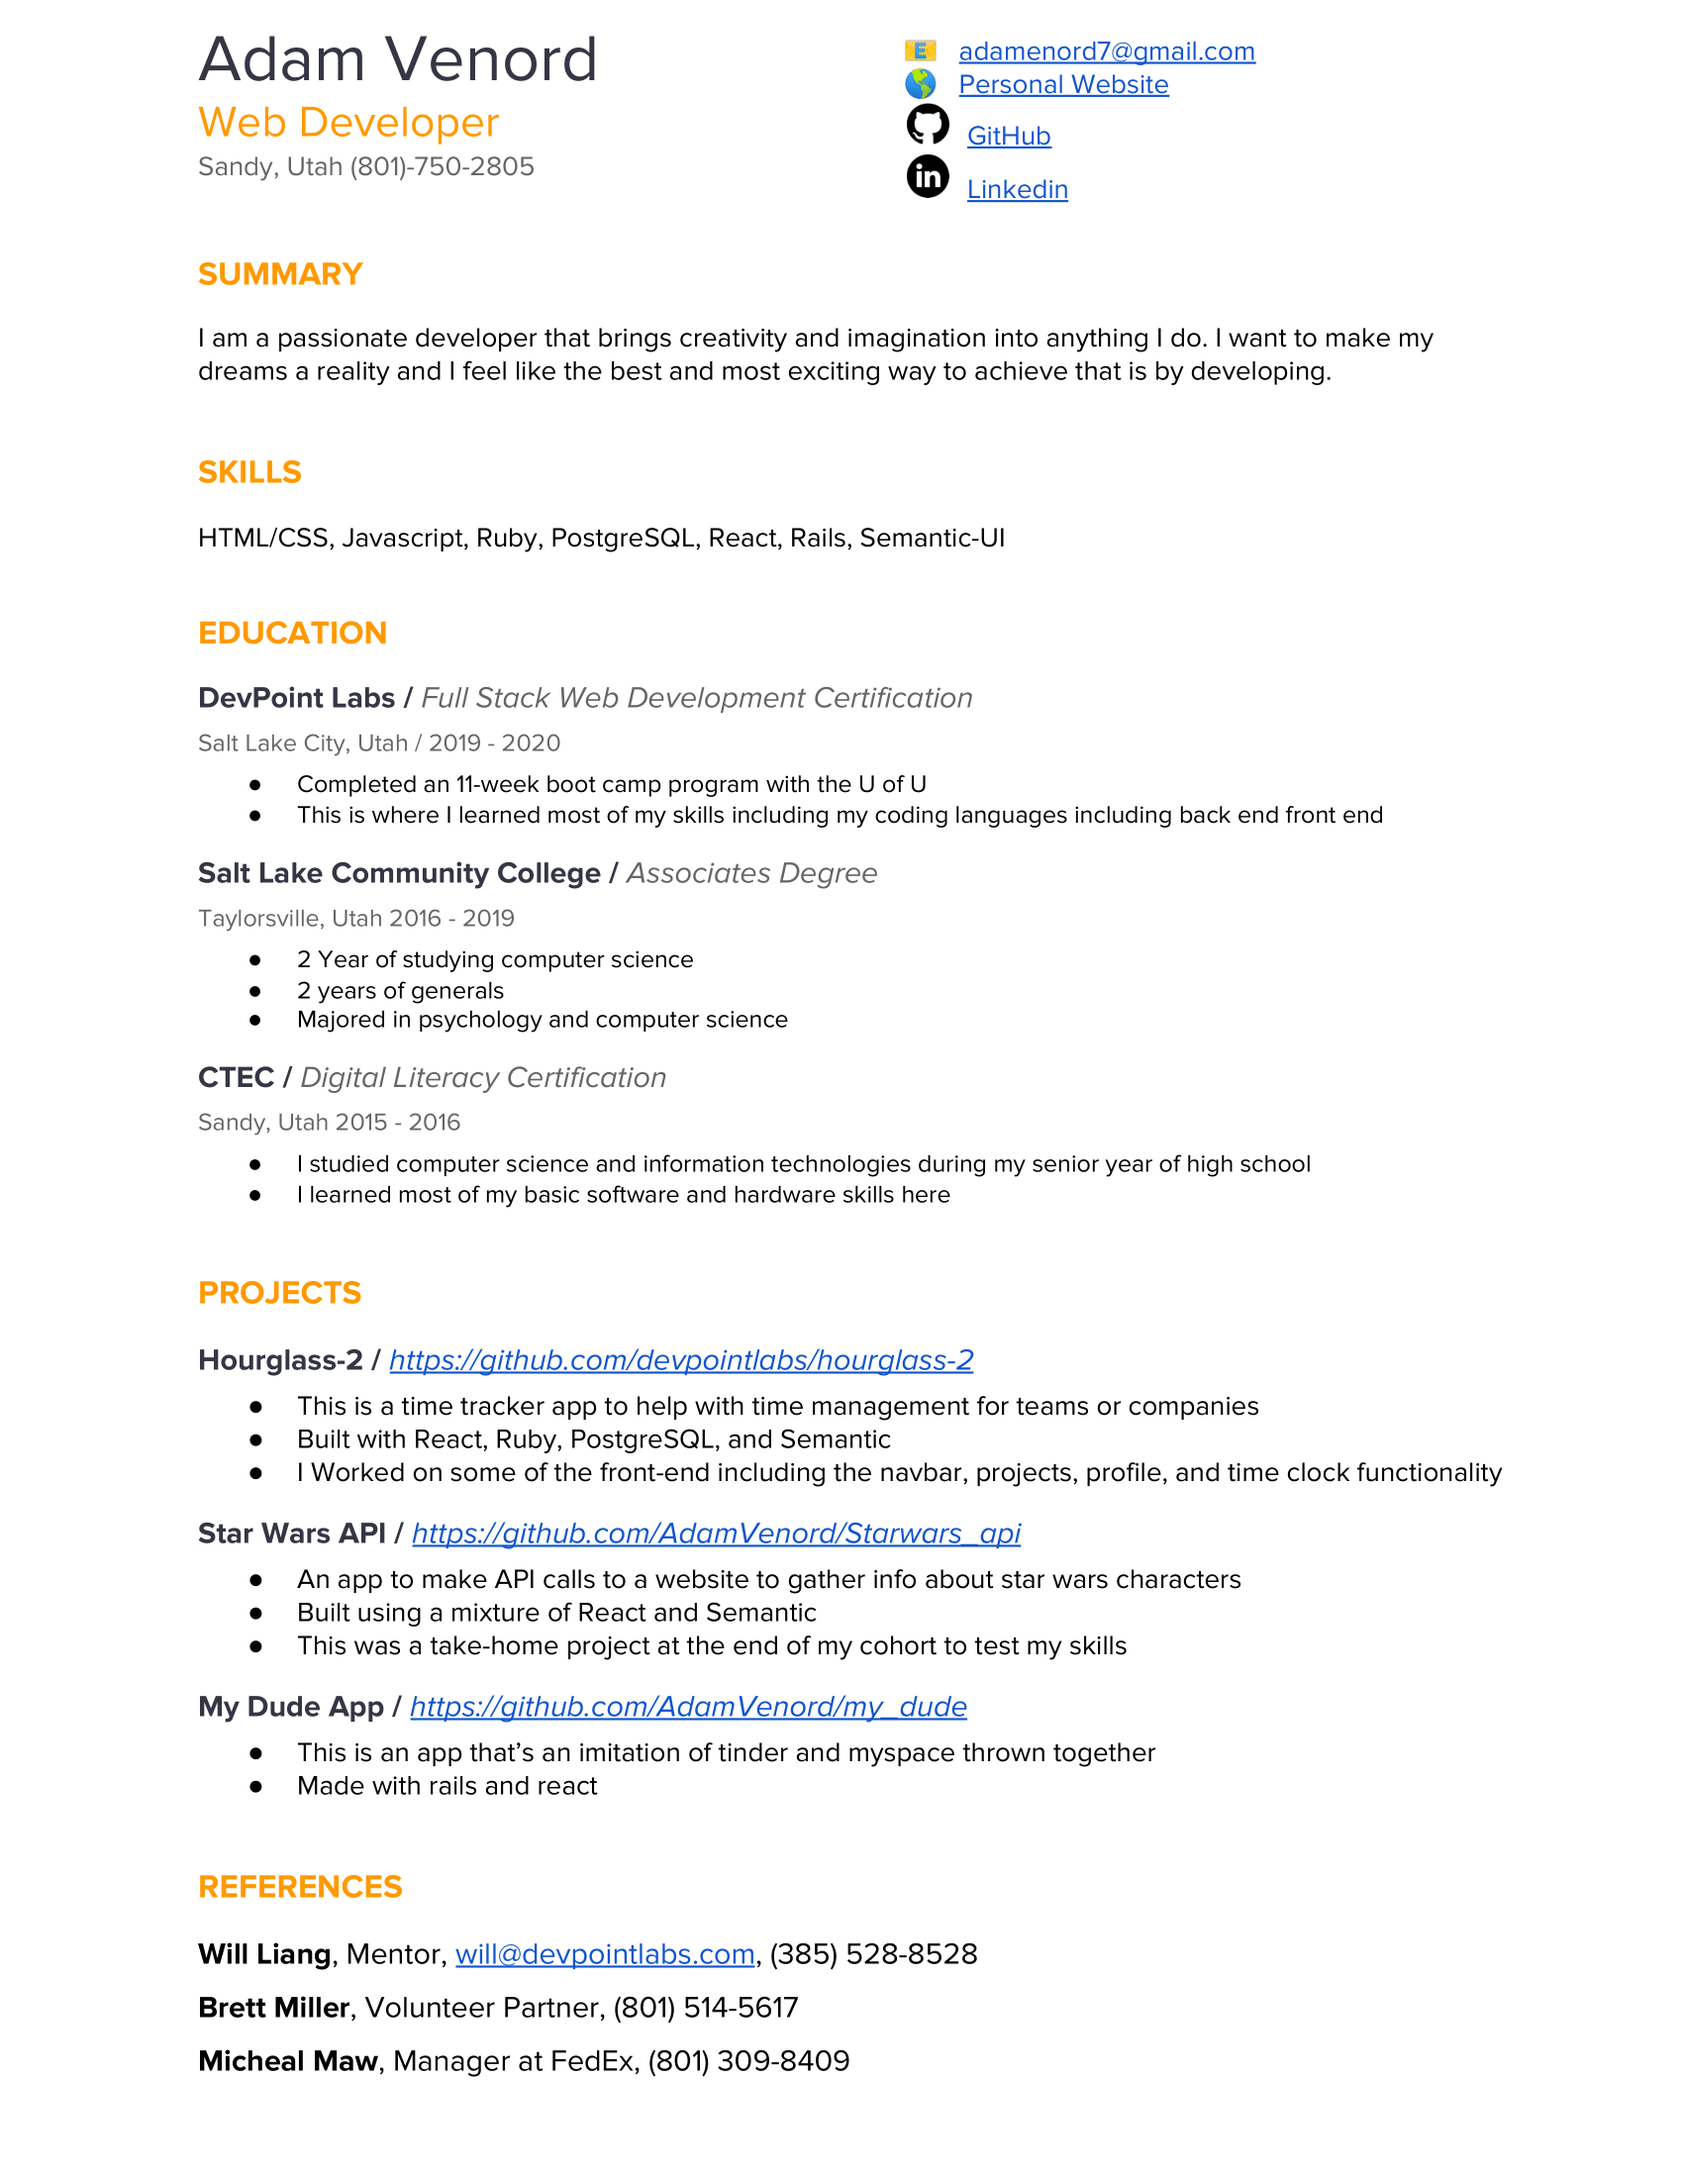
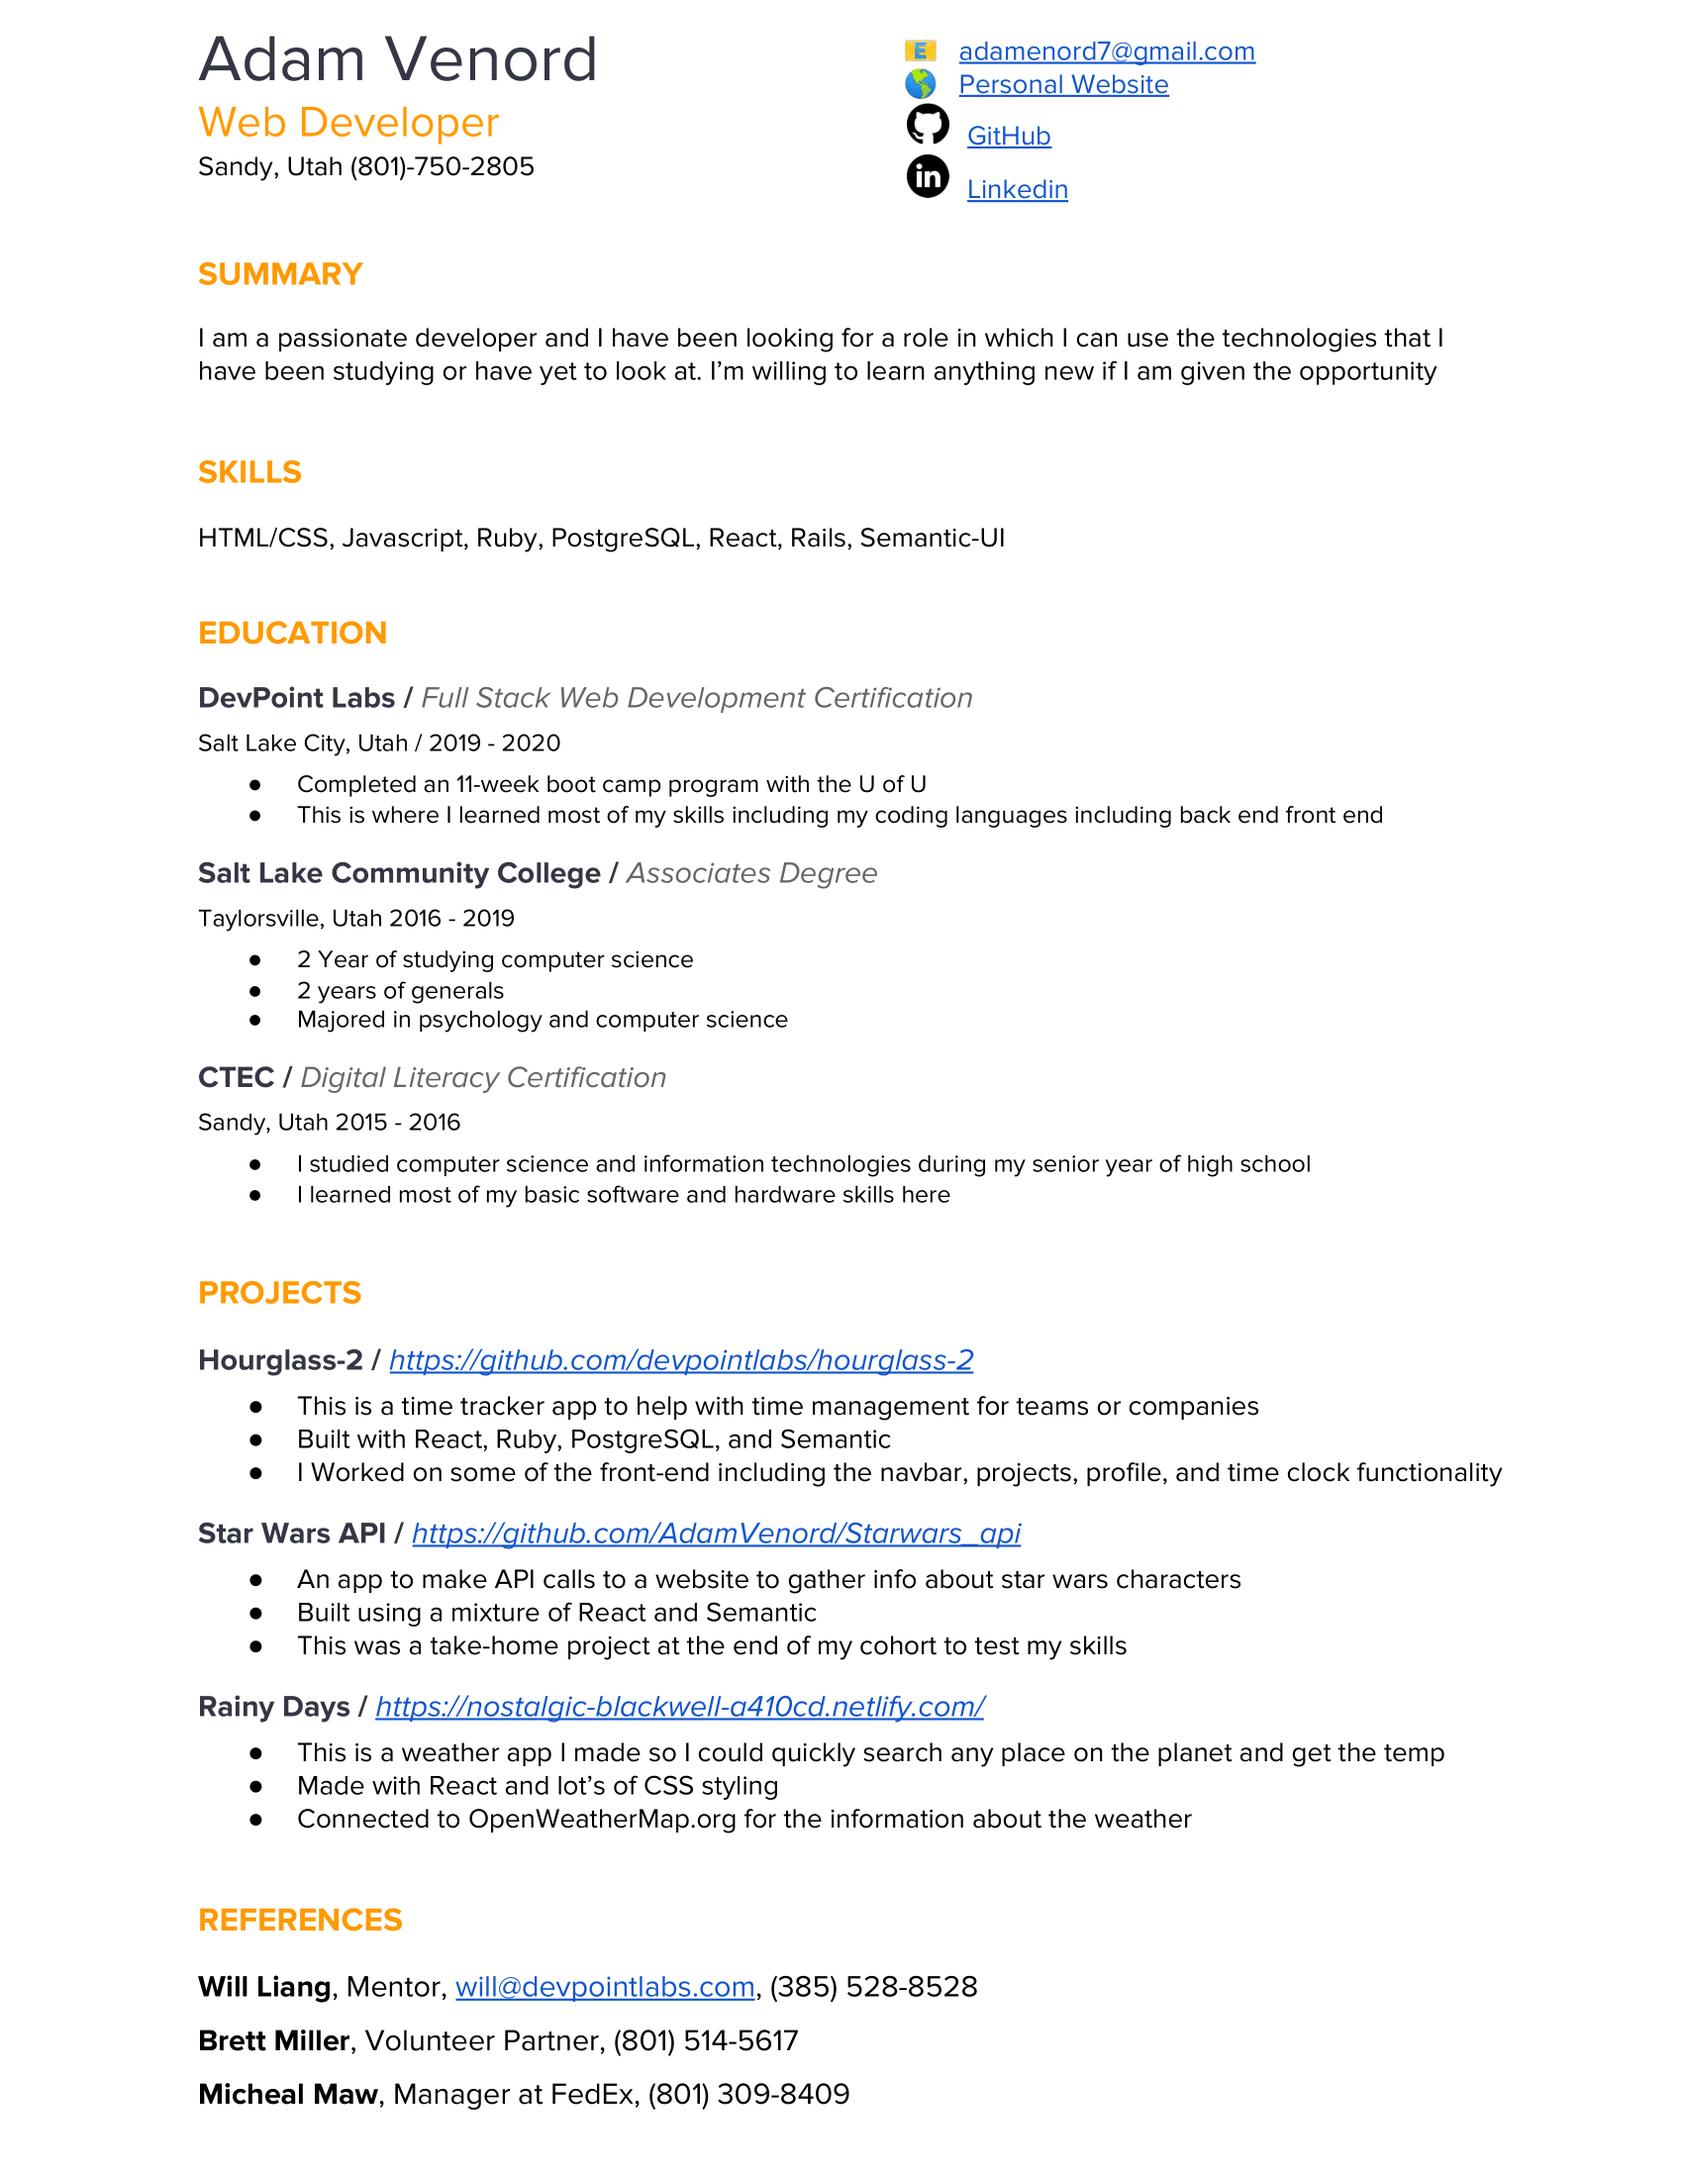
rainy days update

diff --git a/src/components/Projects.js b/src/components/Projects.js
@@ -103,20 +103,26 @@ export default class Project extends Component {
   </Card>
   <Card align="center">
     <Image 
-      src='https://pmcvariety.files.wordpress.com/2016/02/myspace_logo.gif' 
+      src='https://wallpaperplay.com/walls/full/d/0/d/69808.jpg' 
       wrapped ui={false} 
       />
     <Card.Content>
-      <Card.Header>My Dude App</Card.Header>
+      <Card.Header>Rainy Days App</Card.Header>
       <Card.Description>
-        It's kinda like myspace, tinder, and facebook all in one. Plus A great way to authenticate a user
+        I made this because I wanted a quick way to be able to search the weather of any
+        place on the planet without the hassle of going deeply into a weather app somewhere else
       </Card.Description>
       <br />
       <Button 
         color="black" 
-        href="https://github.com/AdamVenord/my_dude"
+        href="https://github.com/AdamVenord/Rainy-days"
         target="_blank"
       >View On Github</Button>
+      <Button 
+        color="purple" 
+        href="https://nostalgic-blackwell-a410cd.netlify.com"
+        target="_blank"
+      >View Live Website</Button>
     </Card.Content>
   </Card>
   <br />

diff --git a/src/components/Resume.js b/src/components/Resume.js
@@ -5,7 +5,7 @@ import Resume from "./Imgs/Resume.png"
 const About = () => (
   <>
     <Header as="h1">Resume</Header>
-    <Image src={Resume} style={{ width: 850, border: "solid" }} />
+    <Image src={Resume} style={{ width: 850 }} />
     <br />
     <br />
     </>
